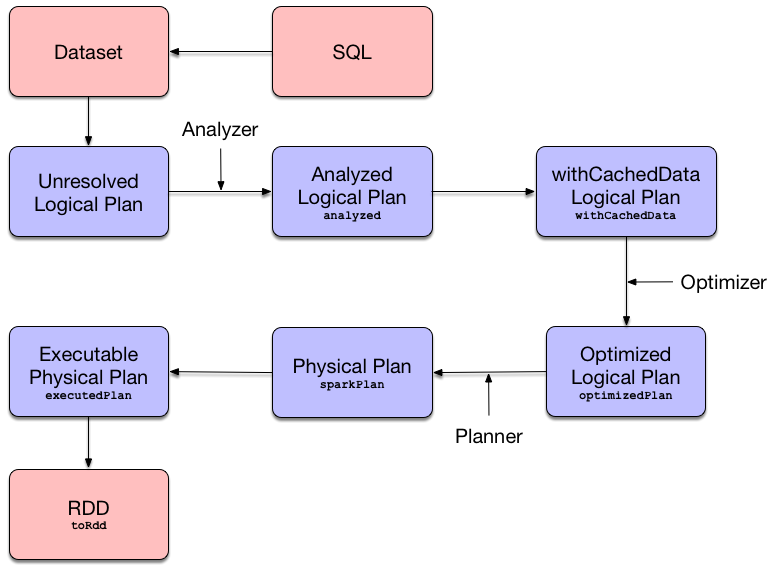
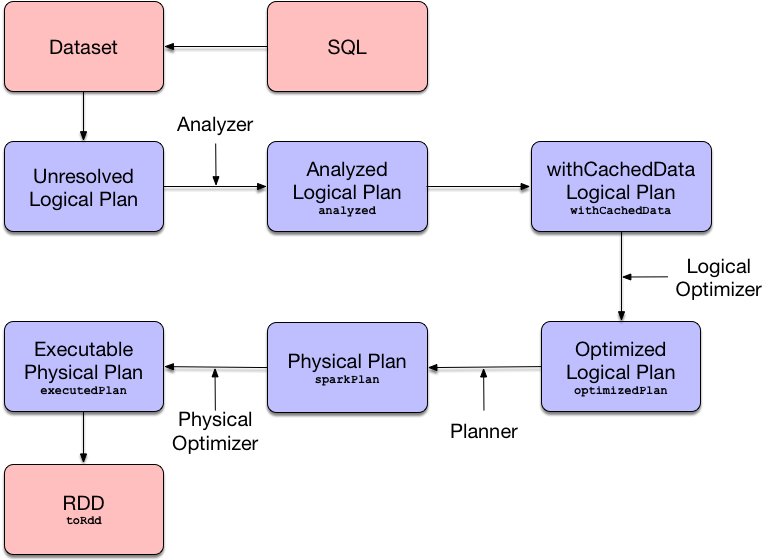
[SLIDES] The Internals of Structured Query Execution (Data Summer Conf Odesa)

diff --git a/slides/spark-sql-internals-of-structured-query-execution.html b/slides/spark-sql-internals-of-structured-query-execution.html
@@ -42,7 +42,7 @@
             <img width="6%" src="images/jacek_laskowski_20141201_512px.png" style="border: 0">
           </p>
           <h1 style="font-size: 2.77em;">The Internals of <br /> Structured Query Execution</h1>
-          <h3>Apache Spark 2.3 / Spark SQL</h3>
+          <h3>Apache Spark 2.3.1 / Spark SQL</h3>
           <h4 style="font-size: smaller;"><a href="https://twitter.com/jaceklaskowski">@jaceklaskowski</a> / <a href="http://stackoverflow.com/users/1305344/jacek-laskowski">StackOverflow</a> / <a href="https://github.com/jaceklaskowski">GitHub</a><br />
           Books: <a href="http://bit.ly/mastering-apache-spark">Mastering Apache Spark</a> / <a href="http://bit.ly/mastering-spark-sql">Mastering Spark SQL</a> / <a href="http://bit.ly/spark-structured-streaming">Spark Structured Streaming</a></h4>
 
@@ -109,6 +109,7 @@
             <li><a href="#/query-execution">Query Execution</a></li>
             <li><a href="#/spark-core-rdd">Spark Core's RDD</a></li>
             <li><a href="#/debugging">Debugging Query Execution</a></li>
+            <li><a href="#/whole-stage-codegen">Whole-Stage Java Code Generation</a></li>
             <li><a href="#/tungsten">Tungsten Execution Backend</a></li>
           </ol>
         </section>
@@ -117,9 +118,9 @@
           <section id="structured-queries">
             <h2>Structured Queries</h2>
             <ol>
-              <li><b>Structured query</b> is a query over data sets that are described by schema
+              <li><b>Structured query</b> is a query over data that is described by a schema
                 <ul>
-                  <li>In other words, data sets have a <b>structure</b></li>
+                  <li>In other words, data has a <b>structure</b></li>
                 </ul>
               </li>
               <li><b>Schema</b> is a tuple of three elements:
@@ -226,7 +227,7 @@
               <li><b>TreeNode</b> is a node with child nodes (<b>children</b>)
                 <ul>
                   <li>Recursive data structure</li>
-                  <li>Builds a tree</li>
+                  <li>Builds a tree of TreeNodes</li>
                 </ul>
               </li>
             </ol>
@@ -258,12 +259,8 @@
           <section id="expression" style="font-size: 90%;">
             <h2>Catalyst Expressions</h2>
             <ol>
-              <li><b>Expression</b> &mdash; a executable node (in a Catalyst tree)</li>
-              <li>Evaluates to a value given input values
-                <ul>
-                  <li>Produces a JVM object per <b>internal row</b></li>
-                </ul>
-              </li>
+              <li><b>Expression</b> &mdash; an executable node (in a Catalyst tree)</li>
+              <li>Evaluates to a JVM object given InternalRow</li>
             </ol>
             <p>
             <pre><code>
@@ -275,6 +272,12 @@
             <h2>Rule</h2>
             <p>
             <img width="80%" style="background:none; border:none; box-shadow:none;" data-src="images/sparksql-catalyst-rule.png">
+            </p>
+          </section>
+          <section id="catalyst-rule-example" style="font-size: 90%;">
+            <h2>Example: RemoveAllHints Logical Rule</h2>
+            <p>
+            <img width="80%" style="background:none; border:none; box-shadow:none;" data-src="images/sparksql-catalyst-rule-RemoveAllHints.png">
             </p>
           </section>
           <section id="catalyst-ruleexecutor">
@@ -310,10 +313,10 @@
             </ol>
           </section>
           <section id="spark-optimizer">
-            <h2>Spark Optimizer</h2>
+            <h2>Spark Logical Optimizer</h2>
             <img width="80%" style="background:none; border:none; box-shadow:none;" data-src="images/sparksql-optimizer.png">
             <ol>
-              <li><b>Spark Optimizer</b> (aka <b>Catalyst Query Optimizer</b>) - Optimizes logical plans and expressions</li>
+              <li><b>Spark Logical Optimizer</b> (aka <b>Catalyst Query Optimizer</b>) - Optimizes logical plans and expressions</li>
               <li>Uses RuleExecutor to execute <b>optimization rules</b></li>
               <li>Switch to Mastering Spark SQL
                 <ul>
@@ -398,10 +401,15 @@
           <section id="debugging">
             <h2>Debugging Query Execution</h2>
             <ol>
-              <li><b>debug</b> package with <b><code>debug</code></b> and <b><code>debugCodegen</code></b>
+              <li><b>debug</b> Scala package object with <b>debug</b> and <b>debugCodegen</b>
                 <pre><code>
-    import org.apache.spark.sql.execution.debug._
-    spark.range(10).where('id === 4).debug
+  import org.apache.spark.sql.execution.debug._
+
+  val q = spark.range(10).where('id === 4)
+  q.debug
+
+  val q = sql("SELECT * FROM RANGE(10) WHERE id = 4")
+  q.debugCodegen
                 </code></pre>
               </li>
               <li>Switch to Mastering Spark SQL
@@ -410,6 +418,31 @@
                 </ul>
               </li>
             </ol>
+          </section>
+        </section>
+        <section>
+          <section id="whole-stage-codegen">
+            <h2>Whole-Stage Java Code Generation</h2>
+            <ol>
+              <li><b>Whole-Stage CodeGen</b> - Physical query optimization</li>
+              <li>Collapses a query plan tree into a single optimized function</li>
+              <li>Applied to structured queries through <b>CollapseCodegenStages</b> physical optimization
+                <ul>
+                  <li><b>spark.sql.codegen.wholeStage</b> internal property</li>
+                </ul>
+              </li>
+              <li>Switch to Mastering Spark SQL
+                <ul>
+                  <li><a href="https://jaceklaskowski.gitbooks.io/mastering-spark-sql/spark-sql-whole-stage-codegen.html">Whole-Stage Java Code Generation (Whole-Stage CodeGen)</a></li>
+                </ul>
+              </li>
+            </ol>
+          </section>
+          <section id="whole-stage-codegen-CollapseCodegenStages-rule" style="font-size: 90%;">
+            <h2>CollapseCodegenStages Optimization Rule</h2>
+            <p>
+            <img width="85%" style="background:none; border:none; box-shadow:none;" data-src="images/sparksql-CollapseCodegenStages.png">
+            </p>
           </section>
         </section>
         <section>
@@ -436,6 +469,7 @@
             <li><a href="#/query-execution">Query Execution</a></li>
             <li><a href="#/spark-core-rdd">Spark Core's RDD</a></li>
             <li><a href="#/debugging">Debugging Query Execution</a></li>
+            <li><a href="#/whole-stage-codegen">Whole-Stage Java Code Generation</a></li>
             <li><a href="#/tungsten">Tungsten Execution Backend</a></li>
           </ol>
         </section>
